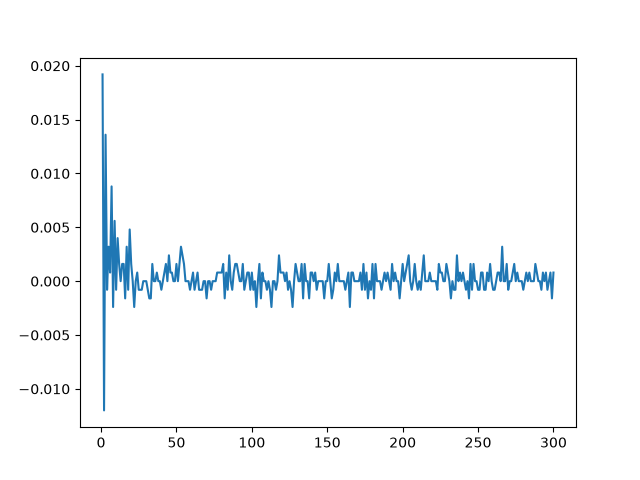
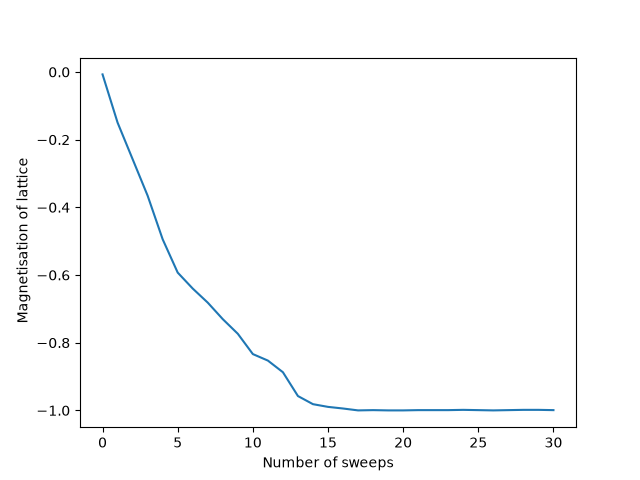
graph has less sweeps

diff --git a/latticechange.py b/latticechange.py
@@ -10,9 +10,8 @@ def sweeps(size, B,J,n):
     f = 0
     deltaE = 0
     r = 0
-    MagnetisationList = []
-    Mag = 0
-    sweepslist = []
+    MagnetisationList = [np.mean(givenlattice)]
+    sweepslist = [0]
     for sweep in range(1,n+1):
         sweepslist = sweepslist + [sweep]
 
@@ -20,7 +19,7 @@ def sweeps(size, B,J,n):
             for j in range(size):
                 r = rand.random()
                 f = givenlattice[i-1][j] + givenlattice[i - size +1][j] + givenlattice[i][j - 1] + givenlattice[i][j - size +1]
-                deltaE =-2*(J*f +B)*givenlattice[i][j]
+                deltaE =2*(J*f +B)*givenlattice[i][j]
                 if np.e**(-deltaE) > 1:
                      givenlattice[i][j] = -givenlattice[i][j]
                 elif np.e**(-deltaE) > r:
@@ -28,7 +27,7 @@ def sweeps(size, B,J,n):
                 else:
                     givenlattice[i][j] = givenlattice[i][j]
         Mag = np.mean(givenlattice)
-        MagnetisationList = MagnetisationList + [Mag]
+        MagnetisationList = MagnetisationList + [np.mean(givenlattice)]
         
         
     return givenlattice, MagnetisationList , sweepslist

diff --git a/plotter.py b/plotter.py
@@ -3,12 +3,16 @@ import numpy as np
 import matplotlib.pyplot as plt 
 
 from latticechange import sweeps
-basis = sweeps(50, -0.05, 0.95,300)
+basis = sweeps(50, -0.05, 0.95,30)
 xvalues = basis[2]
 yvalues = basis[1]
 
+
 plt.figure()
+plt.xlabel('Number of sweeps')
+plt.ylabel(' Magnetisation of lattice')
 plt.plot(xvalues,yvalues)
+
 
 plt.show()
 plt.savefig('mag graph.png')